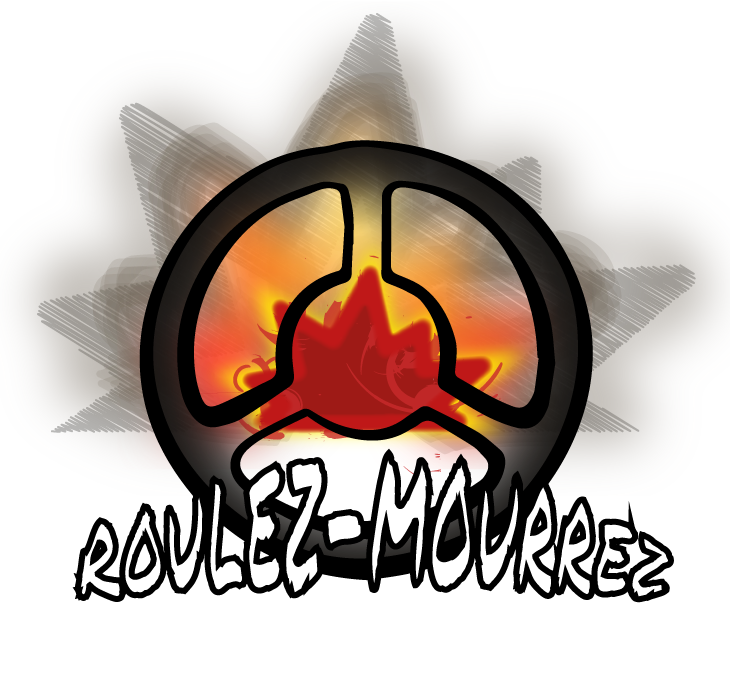
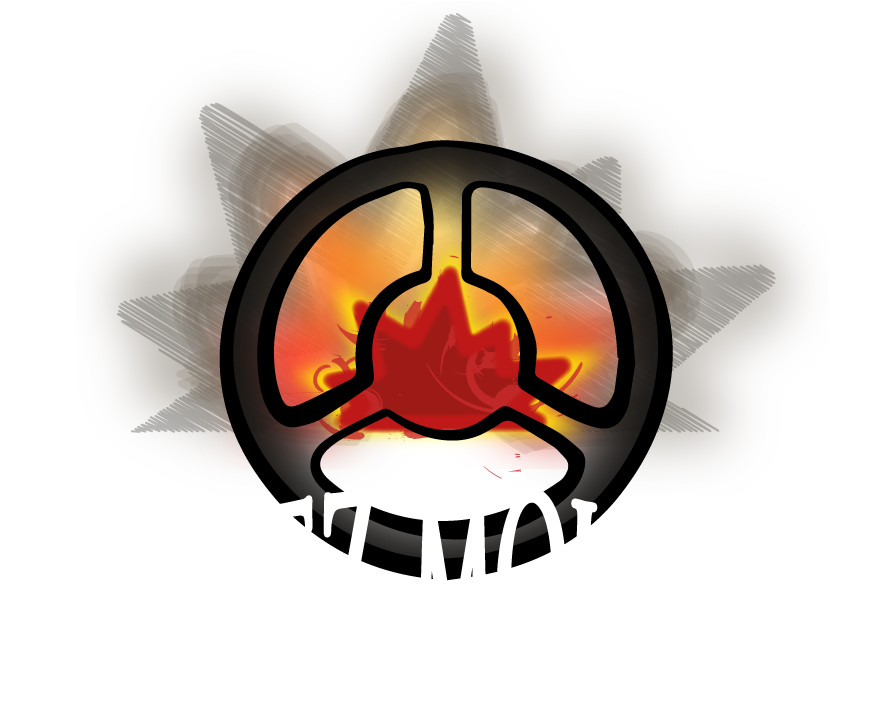
Laura

diff --git a/assets/css/style.css b/assets/css/style.css
@@ -39,7 +39,6 @@
 /******* HEADER ******/
 header{
     background-color: rgb(0, 43, 54);
-    background-size: cover;
 	width: 99%;
 	margin: 0.5% auto;
 	border-radius: 5px 5px 5px 5px;
@@ -51,16 +50,11 @@ header{
 	transition: all 0.3s cubic-bezier(.25,.8,.25,1);
 }
 
-#logo img{
-	width: 30%;
-	height: auto;
-}
-
 /* ==================== NAVIGATION =============== */
 
 .navigation {
     max-width: 100%;
-    margin: 0 auto;
+	margin: 0 auto;
 }
 
 .menu {
@@ -69,12 +63,19 @@ header{
     box-shadow: 0 0 25px rgba(0, 0, 0, 0.1);
     
 }
+.navigation li {
+	display: flex;
+	justify-content: center;
+	align-items:  center;
+}
 
 .navigation ul li a {
     display: flex;
-	height: 100%;
+	height: 50px;
+	/* margin-top: 48px; */
 	align-self: center;
 	justify-content: center;
+	/* border: solid 1px rgb(4, 39, 47); */
 }
 
 .boutonEnvoyer{
@@ -101,7 +102,7 @@ header{
 	border-radius: 5px;
 	left: 0;
 	color: white;
-	background: black;
+	background-color: black;
 	padding-bottom: 15px;
 	box-shadow: 0 1px 3px rgba(0,0,0,0.12), 0 1px 2px rgba(0,0,0,0.24);
 	width: 99%;
@@ -191,11 +192,13 @@ main{
     font-size: 1em;
 }
 
+
 /* =========== SECTION RESULTAT ============= */
 
 .container_resultat{
 	width: 99%;
-	background: lightgray;
+	height: 50px;
+	background: black;
 	margin: 0 auto 0.5% auto;
 	border-radius: 5px;
 	box-shadow: 0 1px 3px rgba(0,0,0,0.12), 0 1px 2px rgba(0,0,0,0.24);
@@ -203,6 +206,7 @@ main{
 
 .resultat_inner{
 	width: 100%;
+	height: 50px;
 	margin: auto;
 	font-family: 'Roboto', sans-serif;
 	font-weight: 700;
@@ -258,11 +262,12 @@ main{
 
 .map--image svg {
     width: 100%;
-    height: 600px;
+    height: 500px;
 }
 
 .map--image path{
-    fill: rgb(151, 205, 226);
+	/* fill: rgb(151, 205, 226); */
+	fill: lightgray;
     stroke: #FFF; /*Permet de séparer les départements*/
     stroke-width: 1px;
     transition: fill 0.3s;
@@ -274,7 +279,7 @@ main{
 
 
 .map--list{
-	height: 600px;
+	height: 450px;
 }
 
 ::-webkit-scrollbar {									/* Scrollbars */

diff --git a/assets/css/grid.css b/assets/css/grid.css
@@ -1,44 +1,54 @@
 .menu{
     display:grid;
-    grid-template-columns: 1fr 1fr 1fr;
-    grid-template-rows: auto 100px;
+    grid-template-columns: auto auto auto auto auto;
+    grid-template-rows: auto;
 }
 
 #logo{
-    grid-column-start: 1;
-    grid-column-end: 4;
+    grid-column: 1;
     width:100%;
     justify-content:center;
-    align-items:center;
+    align-items: flex-end;
     text-align:center
 }
 
 #logo img{
-    width: 120px;
+    width: 180px;
     height: auto;
     min-width: 60px;
 }
 
 .send{
 	display: flex;
-	grid-column-start: 1;
-	grid-column-end: 4;
 }
 
 
-@media(min-width: 768px){
+@media(max-width: 768px){
+
+    #logo img{
+        width: 120px;
+        height: auto;
+        min-width: 60px;
+    }
+
 	.menu{
         display:grid;
-        grid-template-columns: 1fr 1fr 1fr 1fr;
+        grid-template-columns: 1fr 1fr 1fr;
         grid-template-rows: auto 100px;
     }
+    
     #logo{
-        grid-column-end: 5;
+        grid-column-start: 1;
+        grid-column-end: 4;
+        justify-content: center;
+        align-items: center;
     }
 
     .send{
-        grid-column-end: initial;
-        grid-column-start: initial;
+        grid-column-start: 1;
+        grid-column-end: 4;
+        justify-content: center;
+        align-items: center;
     }
 }
 

diff --git a/assets/js/script.js b/assets/js/script.js
@@ -30,6 +30,8 @@ main.addEventListener('click', function () {
     }
 })
 
+
+
 // =========== SECTION DEPARTEMENTS =================
 
 var map = document.querySelector('#map');
